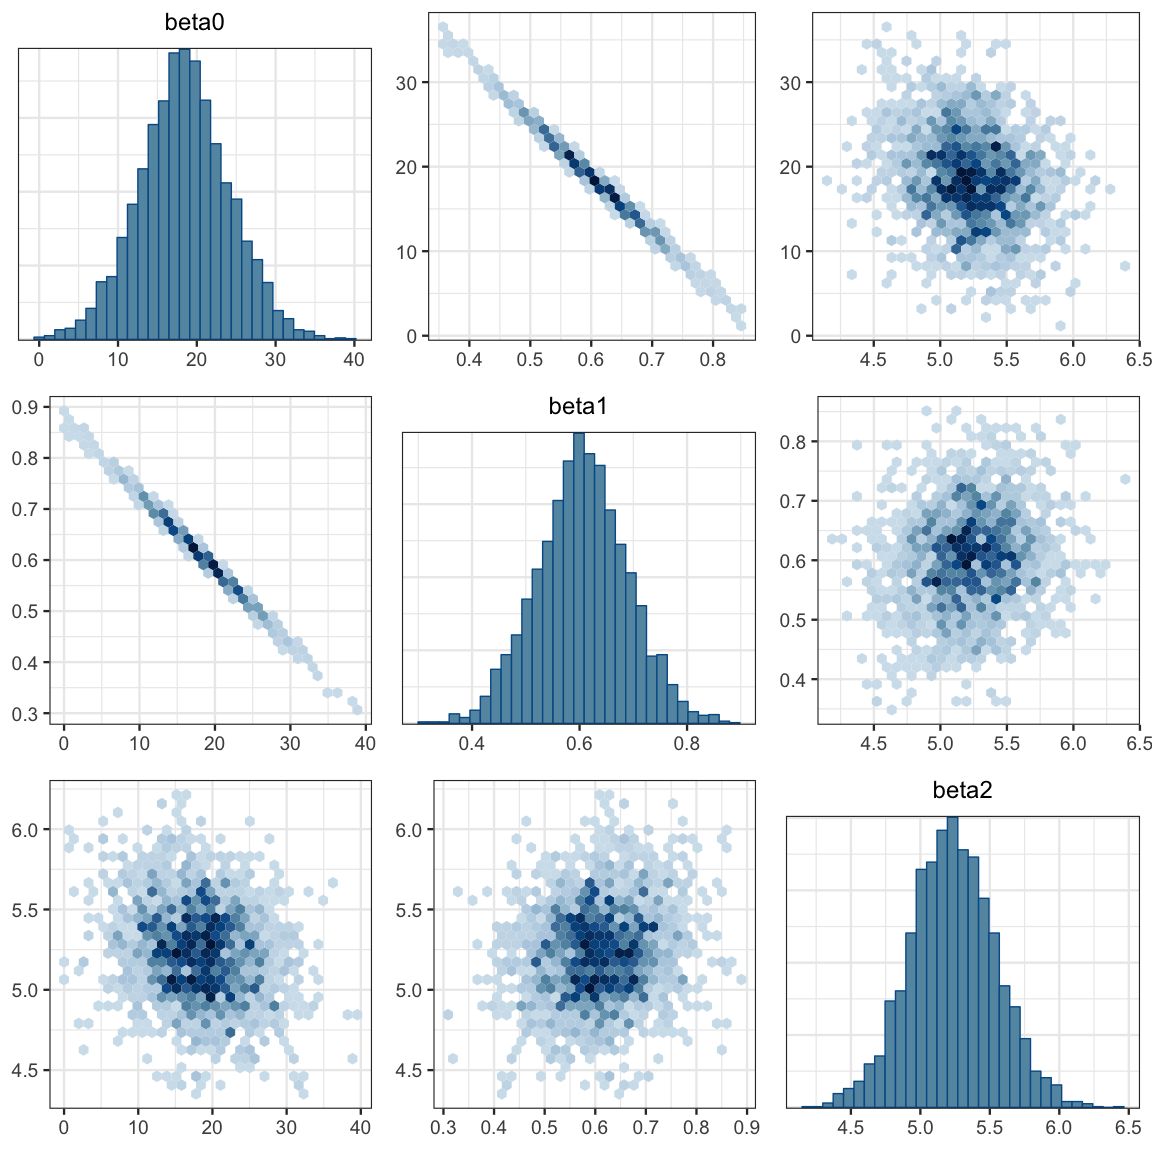
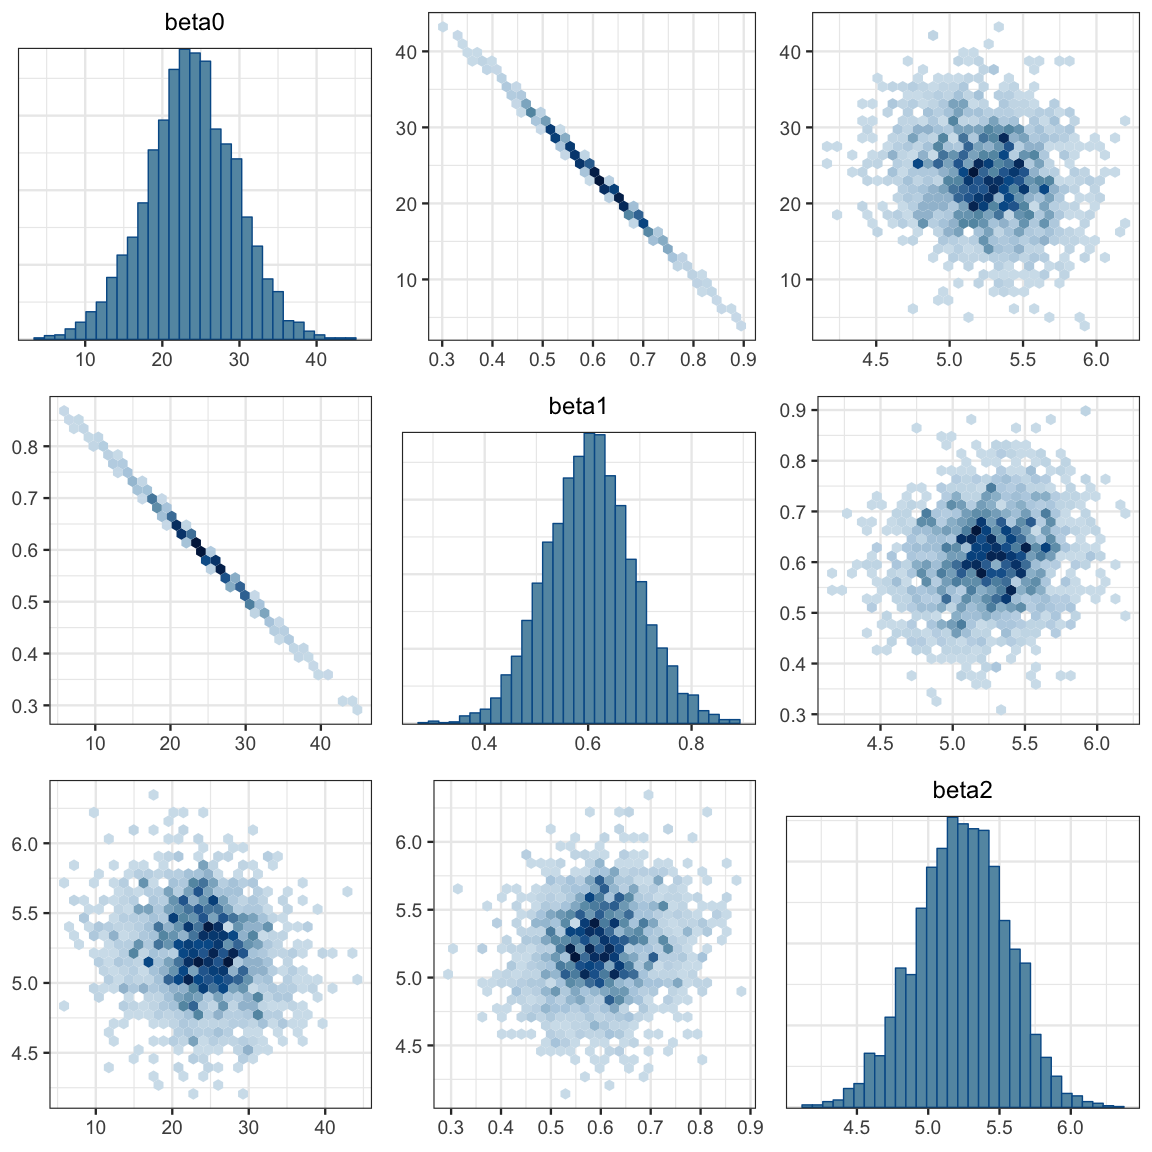
recode sex with 0s and 1s.

diff --git a/docs/simple-linear-regression.html b/docs/simple-linear-regression.html
@@ -25,7 +25,7 @@
 <meta name="author" content="R Pruim">
 
 
-<meta name="date" content="2019-04-02">
+<meta name="date" content="2019-04-03">
 
   <meta name="viewport" content="width=device-width, initial-scale=1">
   <meta name="apple-mobile-web-app-capable" content="yes">
@@ -372,7 +372,7 @@ code span.wa { color: #60a0b0; font-weight: bold; font-style: italic; } /* Warni
 <li class="chapter" data-level="17.4.4" data-path="simple-linear-regression.html"><a href="simple-linear-regression.html#posterior-predictive-checks-with-bayesplot"><i class="fa fa-check"></i><b>17.4.4</b> Posterior predictive checks with bayesplot</a></li>
 </ul></li>
 <li class="chapter" data-level="17.5" data-path="simple-linear-regression.html"><a href="simple-linear-regression.html#fitting-models-with-stan"><i class="fa fa-check"></i><b>17.5</b> Fitting models with Stan</a></li>
-<li class="chapter" data-level="17.6" data-path="simple-linear-regression.html"><a href="simple-linear-regression.html#multiple-intercepts-model"><i class="fa fa-check"></i><b>17.6</b> Multiple Intercepts model</a></li>
+<li class="chapter" data-level="17.6" data-path="simple-linear-regression.html"><a href="simple-linear-regression.html#two-intercepts-model"><i class="fa fa-check"></i><b>17.6</b> Two Intercepts model</a></li>
 <li class="chapter" data-level="17.7" data-path="simple-linear-regression.html"><a href="simple-linear-regression.html#ch17-exercises"><i class="fa fa-check"></i><b>17.7</b> Exercises</a></li>
 </ul></li>
 <li class="chapter" data-level="18" data-path="multiple-metric-predictors.html"><a href="multiple-metric-predictors.html"><i class="fa fa-check"></i><b>18</b> Multiple Metric Predictors</a><ul>
@@ -1068,7 +1068,7 @@ but this doesn’t bother Stan the way it bothers JAGS.</p>
 ## nu           32.61    0.63 26.32    6.08   14.11   24.33   42.89  103.06  1754    1
 ## lp__       -250.04    0.04  1.42 -253.65 -250.71 -249.71 -249.02 -248.31  1268    1
 ## 
-## Samples were drawn using NUTS(diag_e) at Tue Apr  2 00:24:42 2019.
+## Samples were drawn using NUTS(diag_e) at Wed Apr  3 23:38:19 2019.
 ## For each parameter, n_eff is a crude measure of effective sample size,
 ## and Rhat is the potential scale reduction factor on split chains (at 
 ## convergence, Rhat=1).</code></pre>
@@ -1078,18 +1078,18 @@ but this doesn’t bother Stan the way it bothers JAGS.</p>
            <span class="dt">pars =</span> <span class="kw">c</span>(<span class="st">&quot;beta0&quot;</span>, <span class="st">&quot;beta1&quot;</span>, <span class="st">&quot;sigma&quot;</span>, <span class="st">&quot;nu&quot;</span>))</code></pre>
 <p><img src="Redoing_files/figure-html/ch17-galton-stan-combo-1.png" width="576" /></p>
 </div>
-<div id="multiple-intercepts-model" class="section level2">
-<h2><span class="header-section-number">17.6</span> Multiple Intercepts model</h2>
+<div id="two-intercepts-model" class="section level2">
+<h2><span class="header-section-number">17.6</span> Two Intercepts model</h2>
 <p>In the example above we have been dealing with the women alone, but we can build
 a model that handles men and women at the same time. One such model is the
 “mutliple intercpets” model. In this model, both groups (men and women) will
 have the same slope, but the intercepts are allowed to differ.</p>
-<p><em>Note: Because the distribution of <code>nu</code> is skewed, we are computing <span class="math inline">\(log_10(\nu)\)</span> in this model. <span class="math inline">\(\log_10(30) \approx 1.5\)</span>.</em></p>
+<p><em>Note: Because the distribution of <code>nu</code> is skewed, we are computing <span class="math inline">\(log_{10}(\nu)\)</span> in this model. <span class="math inline">\(\log_{10}(30) \approx 1.5\)</span>.</em></p>
 <pre class="stan"><code>data {
   int&lt;lower=0&gt; N;     // N is a non-negative integer
   vector[N] y;        // y is a length-N vector of reals
   vector[N] x;        // x is a length-N vector of reals
-  int&lt;lower=1&gt; g[N];  // g is a length-N vector of integers (for groups)
+  int&lt;lower=0&gt; g[N];  // g is a length-N vector of integers (for groups)
 }
 parameters {
   real beta0;  
@@ -1117,7 +1117,8 @@ model {
 <pre class="sourceCode r"><code class="sourceCode r"><span class="kw">library</span>(rstan)
 <span class="kw">set.seed</span>(<span class="dv">12345</span>)
 GaltonBoth &lt;-<span class="st"> </span>mosaicData<span class="op">::</span>Galton <span class="op">%&gt;%</span><span class="st"> </span>
-<span class="st">  </span><span class="kw">mutate</span>(<span class="dt">midparent =</span> (father <span class="op">+</span><span class="st"> </span>mother)<span class="op">/</span><span class="dv">2</span>) <span class="op">%&gt;%</span>
+<span class="st">  </span><span class="kw">mutate</span>(<span class="dt">midparent =</span> (father <span class="op">+</span><span class="st"> </span>mother)<span class="op">/</span><span class="dv">2</span>,
+         <span class="dt">group =</span> <span class="kw">as.numeric</span>(<span class="kw">factor</span>(sex)) <span class="op">-</span><span class="st"> </span><span class="dv">1</span>) <span class="op">%&gt;%</span><span class="st">   </span><span class="co"># 0s and 1s</span>
 <span class="st">  </span><span class="kw">group_by</span>(family) <span class="op">%&gt;%</span><span class="st"> </span>
 <span class="st">  </span><span class="kw">sample_n</span>(<span class="dv">1</span>)
 
@@ -1128,28 +1129,28 @@ galton2_stanfit &lt;-
       <span class="dt">N =</span> <span class="kw">nrow</span>(GaltonBoth),
       <span class="dt">x =</span> GaltonBoth<span class="op">$</span>midparent,
       <span class="dt">y =</span> GaltonBoth<span class="op">$</span>height,
-      <span class="dt">g =</span> <span class="kw">as.numeric</span>(<span class="kw">factor</span>(GaltonBoth<span class="op">$</span>sex))
+      <span class="dt">g =</span> GaltonBoth<span class="op">$</span>group        <span class="co"># 0s and 1s</span>
     ),
     <span class="dt">chains =</span> <span class="dv">4</span>,
     <span class="dt">iter =</span> <span class="dv">2000</span>,
     <span class="dt">warmup =</span> <span class="dv">1000</span>
   )  </code></pre>
 <pre class="sourceCode r"><code class="sourceCode r">galton2_stanfit</code></pre>
-<pre><code>## Inference for Stan model: bd6c55f3d25f8efbc500ac5d59fac21f.
+<pre><code>## Inference for Stan model: 867602e844da9001ddd6fca37724a70c.
 ## 4 chains, each with iter=2000; warmup=1000; thin=1; 
 ## post-warmup draws per chain=1000, total post-warmup draws=4000.
 ## 
 ##               mean se_mean    sd    2.5%     25%     50%     75%   97.5% n_eff Rhat
-## beta0        18.43    0.14  5.73    7.21   14.65   18.35   22.14   29.63  1621    1
-## beta1         0.61    0.00  0.08    0.44    0.55    0.61    0.66    0.77  1651    1
-## beta2         5.23    0.01  0.31    4.61    5.02    5.23    5.44    5.85  2297    1
-## sigma         2.08    0.00  0.13    1.84    2.00    2.08    2.17    2.33  1922    1
-## nuMinusOne   34.29    0.57 27.59    6.32   15.27   25.91   43.92  109.43  2346    1
-## log10nu       1.44    0.01  0.31    0.86    1.21    1.43    1.65    2.04  1968    1
-## nu           35.29    0.57 27.59    7.32   16.27   26.91   44.92  110.43  2346    1
-## lp__       -317.84    0.04  1.57 -321.78 -318.64 -317.51 -316.69 -315.80  1689    1
+## beta0        23.72    0.15  5.83   12.07   20.03   23.72   27.65   35.03  1441    1
+## beta1         0.60    0.00  0.09    0.44    0.55    0.60    0.66    0.78  1447    1
+## beta2         5.23    0.01  0.32    4.59    5.02    5.24    5.46    5.84  2289    1
+## sigma         2.09    0.00  0.13    1.84    2.00    2.09    2.18    2.34  2240    1
+## nuMinusOne   36.01    0.57 27.62    6.79   16.18   28.16   47.52  107.40  2352    1
+## log10nu       1.46    0.01  0.31    0.89    1.24    1.46    1.69    2.04  2141    1
+## nu           37.01    0.57 27.62    7.79   17.18   29.16   48.52  108.40  2352    1
+## lp__       -317.92    0.04  1.59 -321.86 -318.77 -317.57 -316.76 -315.82  1470    1
 ## 
-## Samples were drawn using NUTS(diag_e) at Tue Apr  2 00:06:56 2019.
+## Samples were drawn using NUTS(diag_e) at Wed Apr  3 13:02:01 2019.
 ## For each parameter, n_eff is a crude measure of effective sample size,
 ## and Rhat is the potential scale reduction factor on split chains (at 
 ## convergence, Rhat=1).</code></pre>
@@ -1161,30 +1162,29 @@ Post_galton2 &lt;-<span class="st"> </span><span class="kw">posterior</span>(gal
 <p><img src="Redoing_files/figure-html/ch17-galton2-mcmc-plots-2.png" width="576" /></p>
 <pre><code>## $posterior
 ##       ESS  mean median  mode
-## var1 2480 5.232   5.23 5.217
+## var1 2342 5.234  5.238 5.228
 ## 
 ## $hdi
 ##   prob    lo    hi
-## 1 0.95 4.598 5.834</code></pre>
+## 1 0.95 4.582 5.825</code></pre>
 <pre class="sourceCode r"><code class="sourceCode r"><span class="kw">mcmc_pairs</span>(galton2_mcmc, <span class="dt">regex_pars =</span> <span class="st">&quot;beta&quot;</span>, <span class="dt">off_diag_fun =</span> <span class="st">&quot;hex&quot;</span>)</code></pre>
 <p><img src="Redoing_files/figure-html/ch17-galton2-mcmc-plots-3.png" width="576" /></p>
 <pre class="sourceCode r"><code class="sourceCode r"><span class="kw">mcmc_areas</span>(galton2_mcmc, <span class="dt">regex_pars =</span> <span class="st">&quot;beta2&quot;</span>, <span class="dt">prob =</span> <span class="fl">0.95</span>)</code></pre>
 <p><img src="Redoing_files/figure-html/ch17-galton2-areas-1.png" width="576" /></p>
 <pre class="sourceCode r"><code class="sourceCode r"><span class="kw">mcmc_areas</span>(galton2_mcmc, <span class="dt">regex_pars =</span> <span class="st">&quot;log10nu&quot;</span>, <span class="dt">prob =</span> <span class="fl">0.95</span>)</code></pre>
 <p><img src="Redoing_files/figure-html/ch17-galton2-areas-2.png" width="576" /></p>
-<pre class="sourceCode r"><code class="sourceCode r">GaltonBoth &lt;-<span class="st"> </span>GaltonBoth <span class="op">%&gt;%</span><span class="st"> </span><span class="kw">mutate</span>(<span class="dt">g =</span> <span class="kw">as.numeric</span>(sex))
-<span class="kw">head</span>(GaltonBoth, <span class="dv">3</span>) </code></pre>
+<pre class="sourceCode r"><code class="sourceCode r"><span class="kw">head</span>(GaltonBoth, <span class="dv">3</span>) </code></pre>
 <pre><code>## # A tibble: 3 x 8
 ## # Groups:   family [3]
-##   family father mother sex   height nkids midparent     g
+##   family father mother sex   height nkids midparent group
 ##   &lt;fct&gt;   &lt;dbl&gt;  &lt;dbl&gt; &lt;fct&gt;  &lt;dbl&gt; &lt;int&gt;     &lt;dbl&gt; &lt;dbl&gt;
-## 1 1        78.5   67   F       69       4      72.8     1
-## 2 10       74     65.5 F       65.5     1      69.8     1
-## 3 100      69     66   M       70       3      67.5     2</code></pre>
+## 1 1        78.5   67   F       69       4      72.8     0
+## 2 10       74     65.5 F       65.5     1      69.8     0
+## 3 100      69     66   M       70       3      67.5     1</code></pre>
 <pre class="sourceCode r"><code class="sourceCode r">yind &lt;-
 <span class="st">  </span><span class="kw">posterior_calc</span>(
     galton2_stanfit, 
-    yind <span class="op">~</span><span class="st"> </span>beta0 <span class="op">+</span><span class="st"> </span>beta1 <span class="op">*</span><span class="st"> </span>midparent <span class="op">+</span><span class="st"> </span>beta2 <span class="op">*</span><span class="st"> </span>g <span class="op">+</span><span class="st"> </span>
+    yind <span class="op">~</span><span class="st"> </span>beta0 <span class="op">+</span><span class="st"> </span>beta1 <span class="op">*</span><span class="st"> </span>midparent <span class="op">+</span><span class="st"> </span>beta2 <span class="op">*</span><span class="st"> </span>group <span class="op">+</span><span class="st"> </span>
 <span class="st">           </span><span class="kw">rstudent_t</span>(<span class="kw">nrow</span>(GaltonBoth), <span class="dt">df =</span> nu, <span class="dt">mean =</span> <span class="dv">0</span>, <span class="dt">sigma =</span> sigma),
     <span class="dt">data =</span> GaltonBoth
   )
@@ -1196,6 +1196,7 @@ Post_galton2 &lt;-<span class="st"> </span><span class="kw">posterior</span>(gal
 <span class="st">  </span><span class="kw">ppc_intervals_data</span>(
   GaltonBoth<span class="op">$</span>height, yind, <span class="dt">group =</span> GaltonBoth<span class="op">$</span>sex, 
   <span class="dt">x =</span> GaltonBoth<span class="op">$</span>midparent)
+
 <span class="kw">glimpse</span>(ppc_data)</code></pre>
 <pre><code>## Observations: 197
 ## Variables: 11
@@ -1205,11 +1206,11 @@ Post_galton2 &lt;-<span class="st"> </span><span class="kw">posterior</span>(gal
 ## $ x           &lt;dbl&gt; 72.75, 69.75, 67.50, 67.85, 67.50, 67.75, 68.00, 67.75, 67.75, 67.50, 67.00, …
 ## $ outer_width &lt;dbl&gt; 0.9, 0.9, 0.9, 0.9, 0.9, 0.9, 0.9, 0.9, 0.9, 0.9, 0.9, 0.9, 0.9, 0.9, 0.9, 0.…
 ## $ inner_width &lt;dbl&gt; 0.5, 0.5, 0.5, 0.5, 0.5, 0.5, 0.5, 0.5, 0.5, 0.5, 0.5, 0.5, 0.5, 0.5, 0.5, 0.…
-## $ ll          &lt;dbl&gt; 64.03, 62.26, 66.18, 66.40, 66.25, 66.20, 66.41, 61.08, 60.97, 60.99, 66.02, …
-## $ l           &lt;dbl&gt; 66.25, 64.39, 68.35, 68.55, 68.37, 68.39, 68.65, 63.28, 63.32, 63.12, 68.01, …
-## $ m           &lt;dbl&gt; 67.79, 65.90, 69.79, 70.02, 69.78, 69.90, 70.07, 64.71, 64.76, 64.53, 69.51, …
-## $ h           &lt;dbl&gt; 69.27, 67.37, 71.19, 71.41, 71.22, 71.35, 71.52, 66.21, 66.20, 65.99, 70.95, …
-## $ hh          &lt;dbl&gt; 71.47, 69.46, 73.44, 73.51, 73.38, 73.48, 73.74, 68.40, 68.31, 68.11, 73.08, …</code></pre>
+## $ ll          &lt;dbl&gt; 64.00, 62.39, 66.05, 66.41, 66.09, 66.26, 66.27, 61.05, 61.01, 61.05, 65.83, …
+## $ l           &lt;dbl&gt; 66.28, 64.49, 68.36, 68.57, 68.32, 68.46, 68.56, 63.21, 63.23, 63.23, 68.01, …
+## $ m           &lt;dbl&gt; 67.75, 65.89, 69.83, 69.95, 69.76, 69.92, 70.02, 64.67, 64.66, 64.63, 69.47, …
+## $ h           &lt;dbl&gt; 69.22, 67.32, 71.24, 71.40, 71.09, 71.43, 71.56, 66.16, 66.08, 66.01, 70.92, …
+## $ hh          &lt;dbl&gt; 71.52, 69.44, 73.52, 73.60, 73.27, 73.54, 73.68, 68.35, 68.31, 68.16, 73.12, …</code></pre>
 <pre class="sourceCode r"><code class="sourceCode r"><span class="kw">gf_ribbon</span>(ll <span class="op">+</span><span class="st"> </span>hh <span class="op">~</span><span class="st"> </span>x, <span class="dt">fill =</span> <span class="op">~</span><span class="st"> </span>group, <span class="dt">data =</span> ppc_data) <span class="op">%&gt;%</span>
 <span class="st">  </span><span class="kw">gf_ribbon</span>(l <span class="op">+</span><span class="st"> </span>h <span class="op">~</span><span class="st"> </span>x, <span class="dt">fill =</span> <span class="op">~</span><span class="st"> </span>group, <span class="dt">data =</span> ppc_data) <span class="op">%&gt;%</span>
 <span class="st">  </span><span class="kw">gf_point</span>(y_obs <span class="op">~</span><span class="st"> </span>x, <span class="dt">color =</span>  <span class="op">~</span><span class="st"> </span>group, <span class="dt">data =</span> ppc_data) <span class="op">%&gt;%</span>
@@ -1223,7 +1224,7 @@ between the model and the data. (So our restriction that the slopes
 of the lines be the same for men and women seems OK.)</li>
 <li>The “noise distribution” seems well approximated
 with a normal distribution (The majoritiy of the posterior distibution for
-<span class="math inline">\(\log_10(\nu)\)</span> is above 1.5.)</li>
+<span class="math inline">\(\log_{10}(\nu)\)</span> is above 1.5.)</li>
 </ul>
 <pre class="sourceCode r"><code class="sourceCode r"><span class="kw">hdi</span>(<span class="kw">posterior</span>(galton2_stanfit), <span class="dt">regex_pars =</span> <span class="st">&quot;nu&quot;</span>, <span class="dt">prob =</span> <span class="fl">0.90</span>)</code></pre>
 <table>
@@ -1238,20 +1239,20 @@ with a normal distribution (The majoritiy of the posterior distibution for
 <tbody>
 <tr class="odd">
 <td align="left">nuMinusOne</td>
-<td align="right">4.5025</td>
-<td align="right">71.069</td>
+<td align="right">4.1442</td>
+<td align="right">73.403</td>
 <td align="right">0.9</td>
 </tr>
 <tr class="even">
 <td align="left">log10nu</td>
-<td align="right">0.9035</td>
-<td align="right">1.912</td>
+<td align="right">0.9737</td>
+<td align="right">1.958</td>
 <td align="right">0.9</td>
 </tr>
 <tr class="odd">
 <td align="left">nu</td>
-<td align="right">5.5025</td>
-<td align="right">72.069</td>
+<td align="right">5.1442</td>
+<td align="right">74.403</td>
 <td align="right">0.9</td>
 </tr>
 </tbody>
@@ -1276,27 +1277,81 @@ Here’s the 95% HPDI for <span class="math inline">\(\beta_2\)</span> (along wi
 <tbody>
 <tr class="odd">
 <td align="left">beta0</td>
-<td align="right">7.2034</td>
-<td align="right">29.5919</td>
+<td align="right">12.5363</td>
+<td align="right">35.456</td>
 <td align="right">0.95</td>
 </tr>
 <tr class="even">
 <td align="left">beta1</td>
-<td align="right">0.4335</td>
-<td align="right">0.7645</td>
+<td align="right">0.4333</td>
+<td align="right">0.774</td>
 <td align="right">0.95</td>
 </tr>
 <tr class="odd">
 <td align="left">beta2</td>
-<td align="right">4.5981</td>
-<td align="right">5.8342</td>
+<td align="right">4.5819</td>
+<td align="right">5.825</td>
 <td align="right">0.95</td>
 </tr>
 </tbody>
 </table>
 <p>We could let other things differ accross groups as well: slopes, sigmas, nu,
-etc. All of this is easily doable in JAGS or Stan, but for some of these, it
-is best to use a prior with correlation among certain pairs of parameters.</p>
+etc.</p>
+<!-- All of this is easily doable in JAGS or Stan, but for some of these, it -->
+<!-- is best to use a prior with correlation among certain pairs of parameters. -->
+<!-- ## Two Slopes, Two Intercepts model -->
+<!-- ```{stan ch17-galton3_stan, output.var = "galton3_stan", cache = TRUE, results = "hide"} -->
+<!-- data { -->
+<!--   int<lower=0> N;     // N is a non-negative integer -->
+<!--   vector[N] y;        // y is a length-N vector of reals -->
+<!--   vector[N] x;        // x is a length-N vector of reals -->
+<!--   int<lower=0> g[N];  // g is a length-N vector of integers (for groups) -->
+<!-- } -->
+<!-- parameters { -->
+<!--   real beta0; -->
+<!--   real beta1; -->
+<!--   real beta2; -->
+<!--   real beta3; -->
+<!--   real<lower=0> sigma; -->
+<!--   real<lower=0> nuMinusOne; -->
+<!-- } -->
+<!-- transformed parameters{ -->
+<!--   real<lower=0> log10nu; -->
+<!--   real<lower=0> nu; -->
+<!--   nu = nuMinusOne + 1; -->
+<!--   log10nu = log10(nu); -->
+<!-- } -->
+<!-- model { -->
+<!--   for (i in 1:N) { -->
+<!--     y[i] ~ student_t(nu, beta0 + beta1 * x[i] + beta2 * g[i] + beta3 * x[i] * g[i], sigma); -->
+<!--   } -->
+<!--   beta0 ~ normal(0, 100); -->
+<!--   beta1 ~ normal(0, 4); -->
+<!--   beta2 ~ normal(0, 4); -->
+<!--   beta3 ~ normal(0, 4); -->
+<!--   sigma ~ uniform(6.0 / 100.0, 6.0 * 100.0); -->
+<!--   nuMinusOne ~ exponential(1/29.0); -->
+<!-- } -->
+<!-- ``` -->
+<!-- ```{r ch17-galton3-sampling, results = "hide", cache = TRUE} -->
+<!-- library(rstan) -->
+<!-- galton3_stanfit <- -->
+<!--   sampling( -->
+<!--     galton3_stan, -->
+<!--     data = list( -->
+<!--       N = nrow(GaltonBoth), -->
+<!--       x = GaltonBoth$midparent, -->
+<!--       y = GaltonBoth$height, -->
+<!--       g = GaltonBoth$group         # 0s or 1s -->
+<!--     ), -->
+<!--     chains = 4, -->
+<!--     iter = 2000, -->
+<!--     warmup = 1000 -->
+<!--   ) -->
+<!-- ``` -->
+<!-- ```{r ch17-galton3-summary} -->
+<!-- galton3_stanfit -->
+<!-- ``` -->
 </div>
 <div id="ch17-exercises" class="section level2">
 <h2><span class="header-section-number">17.7</span> Exercises</h2>
